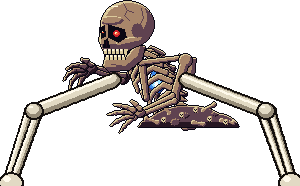
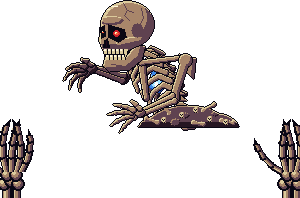
Runde 96: Bosse überarbeitet – Shuten-dōji trägt einen Sake-Kürbis in Hi-Res hinter dem Körper statt grober Kreise; Lexikon-Porträts neu
Claude-Session: https://claude.ai/code/session_01KhgxT7a5tRTGeQVFkHSAcV

Changed region(s): [[0.0, 0.0, 1.0, 1.0], [0.45, 0.0, 0.51, 0.0806]]

diff --git a/yokai/bosses.py b/yokai/bosses.py
@@ -276,8 +276,12 @@ class Boss(Enemy):
 
     def render_sheet(self, s, t):
         name, sc, tint = self.sheet
+        self.render_under(s, t)
         sheets.blit_center(s, name, self.x, self.y - 4, self.face_dir(), self.af(name, t, 7, 0), sc, tint)
         self.render_extra(s, t)
+
+    def render_under(self, s, t):
+        pass
 
     def render_extra(self, s, t):
         pass
@@ -1526,14 +1530,53 @@ class Orochi(Boss):
             sheets.blit_center(s, 'boss_orochi_head', hx, hy, sheets.hdir(self.p.x - hx), self.af('boss_orochi_head', t, 6, i))
 
 
+_GOURD = {}
+
+
+def sake_gourd(sway):
+    """Getrockneter Flaschenkürbis mit roter Kordel, Stopfen und Papierband (Hi-Res, ca. 13x20 Weltpixel)."""
+    if sway in _GOURD:
+        return _GOURD[sway]
+    K = (14, 8, 16)
+    R0, R1, R2, R3 = (96, 60, 34), (168, 116, 56), (214, 170, 92), (250, 226, 160)   # Naturkürbis, hebt sich vom roten Oni ab
+    w, h = 30, 42
+    s = pygame.Surface((w, h), pygame.SRCALPHA)
+    dr = pygame.draw
+    cx = w // 2 + sway
+    dr.line(s, K, (w // 2, 0), (cx, 8), 3)                              # Kordel
+    dr.line(s, (200, 40, 44), (w // 2, 0), (cx, 8), 1)
+    for (yy, r) in ((14, 6), (29, 10)):                                 # zwei Bäuche, oben klein, unten groß
+        dr.circle(s, K, (cx, yy), r + 1)
+    for (yy, r) in ((14, 6), (29, 10)):
+        dr.circle(s, R1, (cx, yy), r)
+    dr.circle(s, R0, (cx + 2, 31), 8)
+    dr.circle(s, R1, (cx + 1, 29), 8)
+    dr.circle(s, R2, (cx - 2, 27), 6)
+    dr.circle(s, R2, (cx - 1, 13), 4)
+    dr.circle(s, R3, (cx - 4, 24), 2)
+    dr.circle(s, R3, (cx - 3, 11), 1)
+    dr.rect(s, K, (cx - 6, 18, 13, 5))                                  # Taille mit Kordelbund
+    dr.rect(s, (200, 40, 44), (cx - 5, 19, 11, 3))                    # rote Kordel um die Taille
+    dr.line(s, (120, 20, 30), (cx - 5, 20), (cx + 5, 20), 1)
+    dr.rect(s, K, (cx - 3, 5, 7, 5))                                    # Stopfen
+    dr.rect(s, (120, 80, 50), (cx - 2, 6, 5, 3))
+    dr.rect(s, K, (cx - 4, 26, 9, 9))                                   # Papierband mit Zeichen „酒“ angedeutet
+    dr.rect(s, (238, 230, 210), (cx - 3, 27, 7, 7))
+    dr.line(s, K, (cx - 1, 28), (cx - 1, 32), 1)
+    dr.line(s, K, (cx + 1, 29), (cx + 2, 29), 1)
+    dr.line(s, K, (cx + 1, 31), (cx + 2, 32), 1)
+    _GOURD[sway] = s
+    return s
+
+
 class ShutenDoji(Boss):
     sheet = ('boss_shuten_doji', 1, None)
 
-    def render_extra(self, s, t):
-        gx = int(self.x + self.face * 24)
-        pygame.draw.circle(s, (220, 60, 50), (gx, int(self.y) + 6), 6)
-        pygame.draw.circle(s, (220, 60, 50), (gx, int(self.y) - 3), 4)
-        pygame.draw.rect(s, (240, 230, 210), (gx - 5, int(self.y) + 1, 10, 2))
+    def render_under(self, s, t):
+        # Sake-Kürbis (Hyōtan) hängt hinten am Gürtel und pendelt – Pixelgrafik in Hi-Res, hinter dem Körper
+        back = -1 if self.face_dir() == sheets.RIGHT else 1
+        img = sake_gourd(int((math.sin(t * 3.0) * 1.5)))
+        gfx.hi_blit(img, self.x + back * 17, self.y + 14)
 
     r = 15
 
